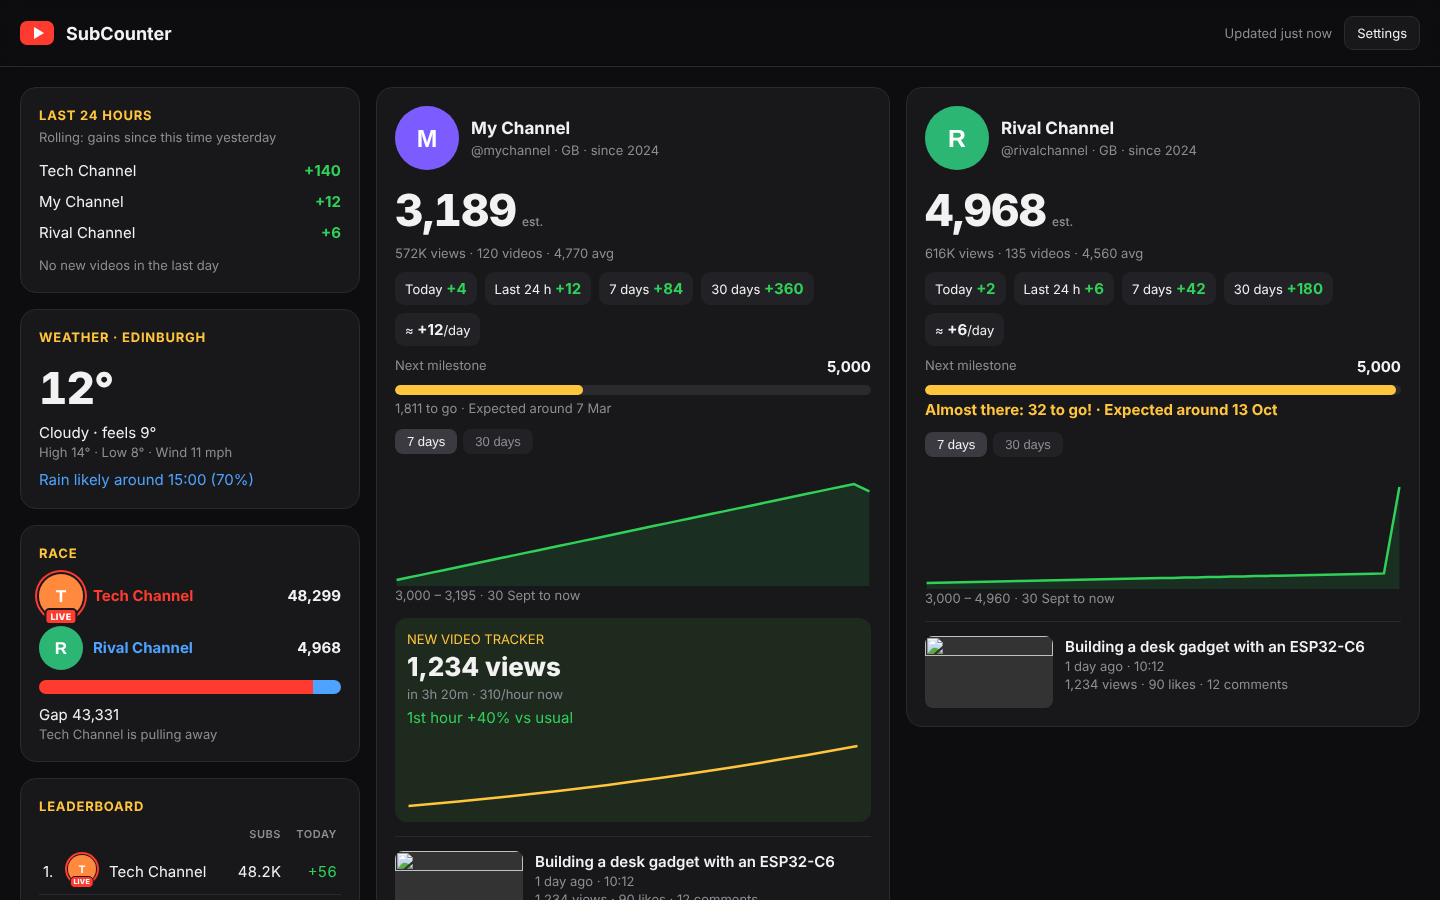
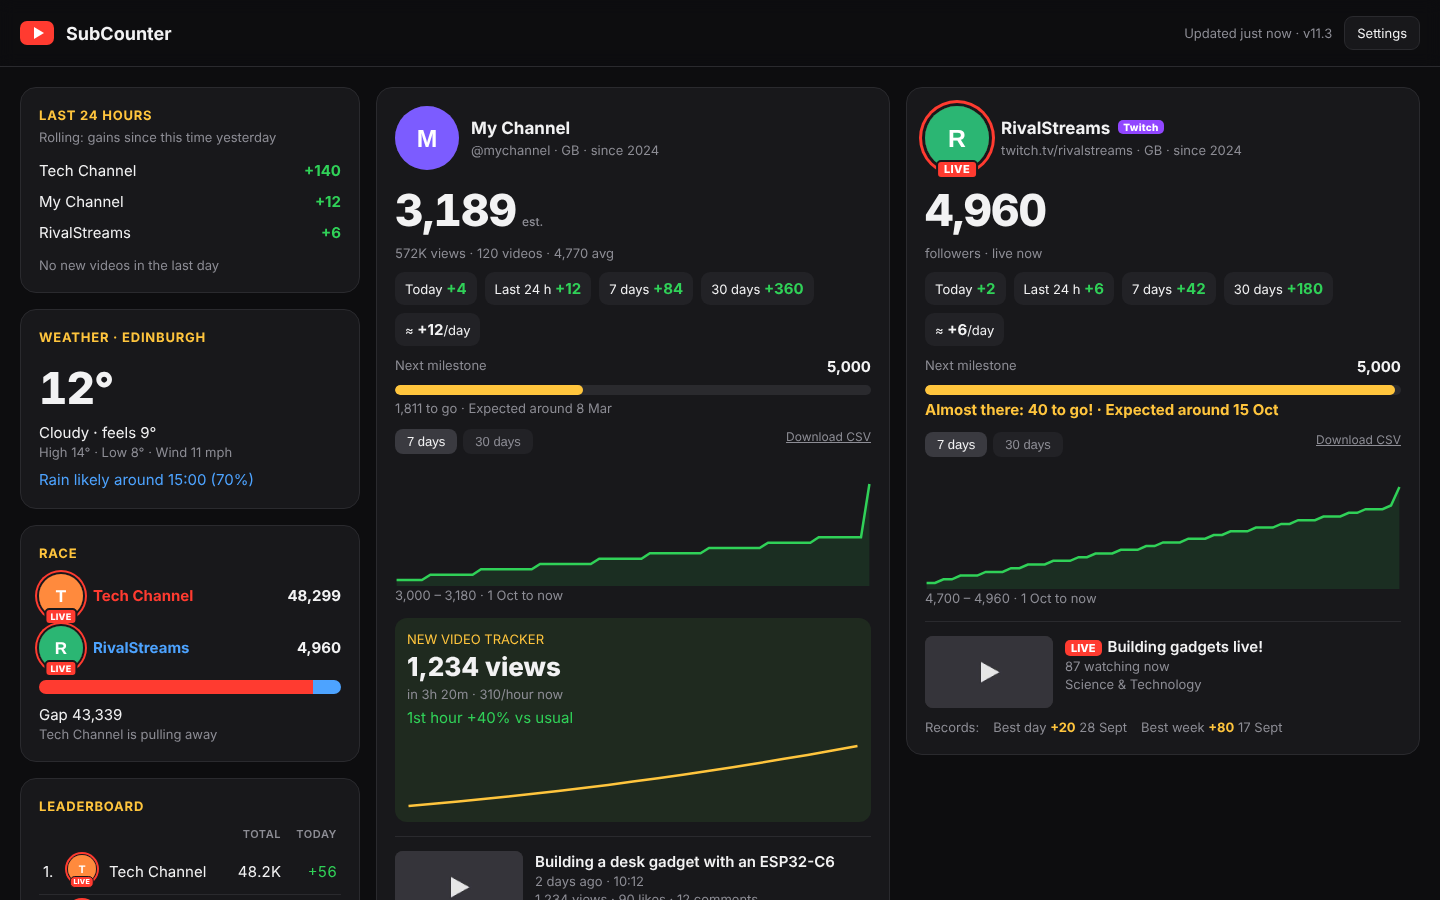
Docs: bring every guide up to date with v11.3, new dashboard screenshot
Claude-Session: https://claude.ai/code/session_01KbZvUcrB4zVKW4s8MWKTNT

diff --git a/README.md b/README.md
@@ -1,6 +1,6 @@
 # SubCounter
 
-A desk gadget built on the **Waveshare ESP32-C6-Touch-LCD-1.47** that shows live YouTube subscriber counts, and has grown into a small desk hub: YouTube stats, weather, Spotify, a web dashboard, motion gestures and more.
+A desk gadget built on the **Waveshare ESP32-C6-Touch-LCD-1.47** that shows live YouTube subscriber and Twitch follower counts, and has grown into a small desk hub: channel stats, weather, Spotify, a web dashboard, phone notifications, motion gestures and more. It updates itself from this repository.
 
 ![Web dashboard](docs/images/dashboard.png)
 
@@ -13,15 +13,6 @@ A desk gadget built on the **Waveshare ESP32-C6-Touch-LCD-1.47** that shows live
 - **v10.2:** Twitch gets its own settings section – just type the channel name
 - **v10.1:** settings PIN fixed, settings page reorganised
 - **v10.0:** the firmware version is shown on the board, settings, update page and dashboard
-- **v9.9:** Twitch channels (followers, live status, alerts) alongside YouTube
-- **v9.8:** latest comments, personal records with alerts, monthly recap, compare chart and CSV download on the dashboard
-- **v9.7:** went-live alerts, milestone countdown, optional settings PIN, clearer Today / 24-hour labels
-- **v9.6:** YouTube-style red LIVE ring and badge on profile pictures while a channel is streaming
-- **v9.5:** open the dashboard at `http://subcounter.local`; IP address shown on start-up and on the home menu
-- **v9.4:** redesigned web dashboard: a side column (last 24 hours, weather, race, leaderboard) next to a grid of channel cards, laid out for desktop, tablet and phone
-- **v9.3:** idle clock after a few minutes without use
-- **v9.2:** scrolling Spotify titles and artist names
-- **v9.1:** one-click Spotify sign-in through an https relay page
 
 Full history: [docs/CHANGELOG.md](docs/CHANGELOG.md)
 
@@ -42,7 +33,7 @@ Full history: [docs/CHANGELOG.md](docs/CHANGELOG.md)
 **Twitch**
 - Add Twitch channels by name in their own settings section: exact follower counts, live status, viewers and went-live alerts ([setup](docs/TWITCH.md))
 
-**Apps** (long-press the screen for the home menu)
+**Apps** (long-press the screen, or hold BOOT for 1 s, for the home menu; swipe left for Device)
 - **Weather:** clock, current conditions, next 12 hours, tomorrow, and a rain warning (Open-Meteo, no key needed)
 - **Spotify:** album art, scrolling title and artist, progress bar; tap to play or pause, swipe to skip, swipe up or down for volume. One-click sign-in from the settings page (via a small relay page you host on GitHub Pages)
 
@@ -53,6 +44,8 @@ Full history: [docs/CHANGELOG.md](docs/CHANGELOG.md)
 - Side column with the last 24 hours' top growers, weather, the race and the leaderboard
 - A card per channel: live (estimated) count, growth chips, milestone progress and predicted date, 7 or 30-day graph, latest video with thumbnail, and the new video tracker on your own channel
 - Monthly table, a compare chart (up to 4 channels) and CSV download of the history
+- Recent uploads per channel, sortable by views, views per day or likes %
+- An **Update** button in the header when a new version is out
 - Adapts to the screen: side column on desktops, two columns on tablets, one on phones
 - Settings at `/settings` and wireless updates at `/update`
 
@@ -72,7 +65,7 @@ Full history: [docs/CHANGELOG.md](docs/CHANGELOG.md)
 
 1. **Flash the board.** Open <https://espressif.github.io/esptool-js/> in Chrome, connect the board, and flash `builds/latest/SubCounter-v11.3-FULL-new-board-flash-at-0x0.bin` at address **0x0**.
 2. **Set it up.** The board shows *SETUP MODE*. Join the Wi-Fi network **SubCounter-Setup** from your phone, and the setup page opens by itself (or go to <http://192.168.4.1>). Pick your Wi-Fi, add your YouTube channels and a YouTube Data API key, then save.
-3. **Use it.** The board shows its address for a few seconds, then your subscriber count. Open **<http://subcounter.local>** (or the IP address) in a browser for the dashboard.
+3. **Use it.** The board shows a QR code and its address for a few seconds, then your subscriber count. Scan the code, or open **<http://subcounter.local>**, for the dashboard.
 
 Full instructions: **[docs/GETTING-STARTED.md](docs/GETTING-STARTED.md)**
 
@@ -85,8 +78,8 @@ Full instructions: **[docs/GETTING-STARTED.md](docs/GETTING-STARTED.md)**
 | [Wi-Fi & networks](docs/WIFI.md) | Multiple networks, fixed IP, iPhone hotspot, error messages |
 | [Twitch setup](docs/TWITCH.md) | Free Twitch app, adding Twitch channels |
 | [Spotify setup](docs/SPOTIFY.md) | Developer app, GitHub Pages relay, connecting |
-| [Updating & flash layout](docs/UPDATING.md) | Wireless updates, which file goes at which address |
-| [Building from source](docs/BUILDING.md) | Arduino IDE settings and libraries |
+| [Updating & flash layout](docs/UPDATING.md) | Updates from GitHub, uploading a file, which file goes at which address |
+| [Building from source](docs/BUILDING.md) | Arduino IDE settings, libraries, code map, GitHub Actions |
 | [Changelog](docs/CHANGELOG.md) | What changed in each version |
 
 ## Repository layout

diff --git a/docs/GETTING-STARTED.md b/docs/GETTING-STARTED.md
@@ -28,7 +28,7 @@ The FULL file is only for a new or wiped board. To update a board that's already
 3. **APIs & Services → Credentials** → **Create credentials → API key**.
 4. Optional but sensible: **Edit the key → API restrictions → Restrict key → YouTube Data API v3**. Leave *Application restrictions* on **None**.
 
-The free quota is 10,000 units a day; SubCounter uses roughly 1,000–2,000 with 10 channels.
+The free quota is 10,000 units a day; SubCounter uses roughly 3,000–3,500 with 10 YouTube channels.
 
 ## 3. First setup
 
@@ -36,21 +36,28 @@ The free quota is 10,000 units a day; SubCounter uses roughly 1,000–2,000 with
 2. On your phone or computer, join the Wi-Fi network **SubCounter-Setup**.
 3. The setup page should pop up by itself. If not, open **<http://192.168.4.1>**.
 4. Fill in:
-   - **YouTube channels:** one per line. `@handles`, `UC…` channel IDs or pasted channel links all work. **Put your own channel first**: it gets highlighted, shown on the night clock, and gets the new video tracker.
+   - **YouTube** section → **YouTube channels:** one per line. `@handles`, `UC…` channel IDs or pasted channel links all work. **Put your own channel first**: it gets highlighted, shown on the night clock, and gets the new video tracker.
    - **YouTube Data API key**
-   - **Wi-Fi:** tap **Scan for networks**, choose yours, and enter the password.
+   - **Twitch** section (optional) → Twitch channel names, one per line. These need a free Twitch app: see [TWITCH.md](TWITCH.md). If you only follow Twitch channels, you can skip the YouTube key.
+   - **Wi-Fi networks** section → tap **Scan for networks**, choose yours, and enter the password.
+
+   Everything else can be changed later. The links at the top of the page jump to each section.
 5. Press **Save & restart**.
 
-The board joins your Wi-Fi, shows its address for a few seconds, then your subscriber count. Open **<http://subcounter.local>** in a browser for the dashboard. If that doesn't work (some Android phones), use the IP address instead: long-press for the home menu and it's at the bottom. Tip: set a DHCP reservation for **subcounter** in your router so the IP never changes.
+The board joins your Wi-Fi and shows a **QR code** with its address for a few seconds, then your subscriber count. Scan the code with your phone's camera, or open **<http://subcounter.local>** in a browser, for the dashboard. If `.local` doesn't work (some Android phones), use the IP address shown next to the QR code. You can bring the QR screen back any time: long-press → swipe left → **Device**. Tip: set a DHCP reservation for **subcounter** in your router so the IP never changes.
 
 ## 4. Optional extras
 
-- **Weather:** settings → *Weather* → your town (default Glasgow)
+- **Weather:** Settings → *Weather* → your town (default Glasgow)
+- **Colour theme and brightness:** Settings → *Display*
+- **Phone notifications** (milestones, going live, records): Settings → *Phone notifications*, see [USING.md](USING.md#phone-notifications)
+- **Settings PIN:** Settings → *Security*, see [USING.md](USING.md#settings-pin)
+- **Automatic updates:** Settings → *Updates*
 - **Twitch channels:** see [TWITCH.md](TWITCH.md)
 - **Spotify:** see [SPOTIFY.md](SPOTIFY.md)
-- **Motion calibration:** put the board where it normally sits, then settings → *Set this as the normal position*
+- **Motion calibration:** put the board where it normally sits, then Settings → *Motion* → *Set this as the normal position*
 - **More Wi-Fi networks** (home, work, phone hotspot): see [WIFI.md](WIFI.md)
 
 ## Getting back into setup
 
-Hold the **BOOT** button for **3 seconds** at any time to open setup mode. Your saved settings are kept, so you only change what you need.
+Hold the **BOOT** button for **3 seconds** at any time to open setup mode. Your saved settings are kept, so you only change what you need. (Holding it for about **1 second** opens the home menu instead.)

diff --git a/docs/USING.md b/docs/USING.md
@@ -10,6 +10,8 @@
 | Tap | – | – | Play / pause |
 | **Long-press (≈1 s)** | **Home menu** | **Home menu** | **Home menu** |
 
+**Home menu:** three big tiles (YouTube, Weather, Spotify). **Swipe left** for the next page with **Device** (QR code, version, updates). Swipe, long-press or BOOT closes it.
+
 **BOOT button:** short press = next channel (YouTube) / next card (Weather) / play-pause (Spotify). **Hold for about 1 s = home menu** (handy if the screen isn't responding). Hold for 3 s = setup mode.
 
 After 2 minutes untouched, each app returns to its main screen.
@@ -107,7 +109,7 @@ After **3 minutes** with no touch, button press or movement (change it, or turn 
 
 ## Web dashboard
 
-Open **`http://subcounter.local`** (or `http://<board-ip>/`) on any device on the same network. The IP address is shown for a few seconds after the board joins Wi-Fi, and at the bottom of the home menu (long-press):
+Open **`http://subcounter.local`** (or `http://<board-ip>/`) on any device on the same network, or scan the QR code on the Device screen. The IP address is also at the bottom of the home menu:
 
 - a side column with top growers in the last 24 hours, weather, race and leaderboard (above the channels on tablets and phones)
 - a card for every channel: live (estimated) count, growth chips, milestone and ETA, a 7 or 30-day graph, and the latest video with thumbnail
@@ -116,8 +118,15 @@ Open **`http://subcounter.local`** (or `http://<board-ip>/`) on any device on th
 - a **Monthly** table (last month and this month so far)
 - a **Compare** chart: pick up to 4 channels and see gains (or % growth) over 7 or 30 days on one chart; hover for exact numbers
 - **CSV downloads** of the history (each card, or everything from the Compare card)
+- **Recent uploads** on each YouTube card: the last 10 videos, sortable by views, views per day or likes %
+- a green **Update** button in the header when a new version is out
+- the colour of your chosen theme
 
-Settings are at `/settings`, and wireless updates at `/update`.
+Settings are at `/settings` (sections: YouTube, Twitch, Display, Alerts, Phone notifications, Weather, Spotify, Motion, Wi-Fi, Updates, Security, Firmware, Backup & restore), and updates at `/update`.
+
+## Settings backup
+
+Settings → **Backup & restore** → *Download settings* saves everything to a `.json` file. The second link includes passwords, API keys and sign-ins; keep that file private. To restore, choose the file and press *Restore & restart*, for example after a full re-flash or on a second board. Subscriber history and records stay on the board and aren't in the file.
 
 ## API quota
 

diff --git a/docs/SPOTIFY.md b/docs/SPOTIFY.md
@@ -29,12 +29,12 @@ The sign-in code is useless without your **Client secret**, which only lives on 
 
 ## 3. Connect the board
 
-1. Board settings → **Spotify**: paste the Client ID, Client secret and the **same** Redirect URI → **Save & restart**.
-2. Open settings again → press the green **Connect Spotify** button → **Agree**.
+1. Board settings → **Spotify** → open **Spotify app details**: paste the **same** Redirect URI, the Client ID and the Client secret → **Save & restart**.
+2. Open settings again → **Spotify** → press the green **Connect Spotify** button (it appears once the app details are saved) → **Agree**.
 3. You're sent back to the board: **"Spotify connected ✓"**.
 4. Long-press the board's screen → **Spotify**.
 
-If the relay page shows a code instead (for example, your phone was on mobile data), copy it into the *code or full address* box under Connect Spotify.
+If the relay page shows a code instead (for example, your phone was on mobile data), open *The relay page showed a code instead?* under Connect Spotify, paste the code (or the page's full address) and press **Use this code**.
 
 ## Troubleshooting
 
@@ -43,6 +43,8 @@ If the relay page shows a code instead (for example, your phone was on mobile da
 | `redirect_uri: Not matching configuration` | The address must match exactly (trailing `/`, capitals, https). Make sure you clicked **Save** at the bottom of the Spotify page, and that the Client ID is from the same app. |
 | "Needs Spotify Premium" | Playback control requires Premium |
 | "No active device" | Start playing on a phone or computer first |
-| Want to disconnect | Board settings → *Disconnect Spotify*, and/or spotify.com → Account → Apps → Remove access |
+| Red error on the Spotify screen | Sign-in failed: check the Client secret in Settings → Spotify → Spotify app details, save, and **Connect Spotify** again. The board retries less often after errors, so the screen stays responsive. |
+| Stuck on the Spotify screen | Long-press, or hold **BOOT** for about 1 second, for the home menu |
+| Want to disconnect | Board settings → Spotify → **Disconnect Spotify**, and/or spotify.com → Account → Apps → Remove access |
 
 The board asks only for these permissions: `user-read-playback-state`, `user-modify-playback-state` and `user-read-currently-playing`.

diff --git a/docs/UPDATING.md b/docs/UPDATING.md
@@ -2,19 +2,25 @@
 
 ## From GitHub (v11.1 and later), easiest
 
-The board checks GitHub once a day. When a new version is out you'll see **"v… available"** on the home menu (long-press), a green **Update** button in the dashboard header, and an **Install** button on the Update page (`http://subcounter.local/update`). Press it, watch the screen, and the board restarts on the new version in about a minute. Settings and history are kept. The file's size and MD5 checksum are checked before anything is installed.
+The board checks GitHub once a day. When a new version is out you'll see:
+
+- **on the board:** "v… available" at the top of the home menu and a red dot on the Device page. Long-press → swipe left → **Device** → **Install v…**. Or tap **Check for update** to look straight away.
+- **on the dashboard:** a green **Update** button in the header
+- **on the Update page** (`http://subcounter.local/update`): an **Install** button, and **Check now**
+
+Press Install, watch the screen (a percentage counts up), and the board restarts on the new version in about a minute. Settings and history are kept. The file's size and MD5 checksum are checked before anything is installed.
 
 To have it install by itself: Settings → **Updates** → *Install new versions from GitHub automatically (at 3 am)*.
 
 ## Wireless update (recommended, v9 and later)
 
-1. Open `http://<board-ip>/update` (or Settings → *Update firmware wirelessly*).
+1. Open `http://<board-ip>/update` (or Settings → *Firmware* → *Update*).
 2. Choose the **APP-ONLY** file, e.g. `SubCounter-v11.3-APP-ONLY.bin`.
 3. Wait about 30 seconds; the board installs and restarts.
 
 Settings, Wi-Fi networks, Spotify login and subscriber history are all kept. The page refuses FULL images. If an update fails, the board keeps running the old version.
 
-**Which version am I on?** It's shown on the update page ("Currently running …"), at the bottom of the settings page, in the dashboard header, at the top right of the home menu (long-press) and for a few seconds at start-up.
+**Which version am I on?** It's shown on the update page ("Currently running …"), at the bottom of the settings page, in the dashboard header, at the top right of the home menu, on the Device screen and for a few seconds at start-up.
 
 ## USB update (any time)
 

diff --git a/builds/README.md b/builds/README.md
@@ -4,9 +4,11 @@
 
 | File | Use for | How |
 |---|---|---|
-| `SubCounter-v11.3-APP-ONLY.bin` | Updating a running board (v9 or later) | Upload at `http://<board-ip>/update` |
+| `SubCounter-v11.3-APP-ONLY.bin` | Updating a running board (v9 or later) | Upload at `http://<board-ip>/update` (v11.1+ can fetch it from GitHub itself) |
 | `SubCounter-v11.3-USB-UPDATE-flash-at-0xE000.bin` | Updating over USB, keeping settings | esptool-js at **0xE000** |
 | `SubCounter-v11.3-FULL-new-board-flash-at-0x0.bin` | New or wiped board | esptool-js at **0x0** (erases settings) |
+
+`latest/version.json` is what boards (v11.1 and later) read once a day to see whether there's a newer version; they can then install it themselves from the Device screen or the Update page.
 
 Older builds are in [`archive/`](archive), one folder per version. The address to use is in each file name.
 Before v9 there was no wireless update: `APP-ONLY-flash-at-0x10000` files went at 0x10000, and v1–v4 files were full images at 0x0.
